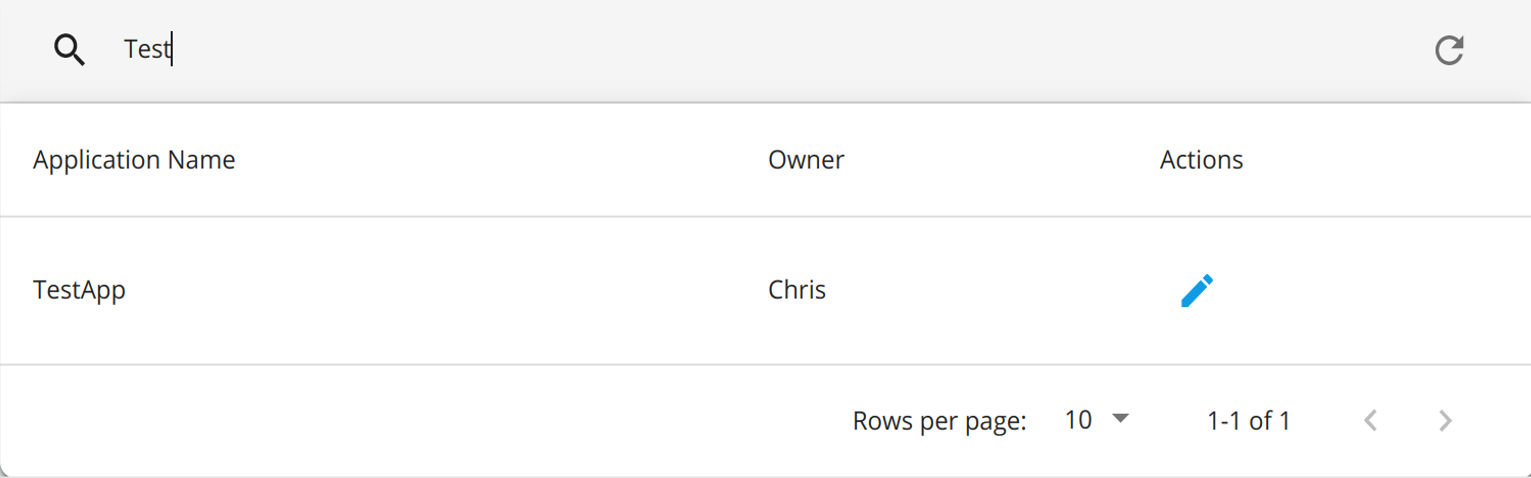
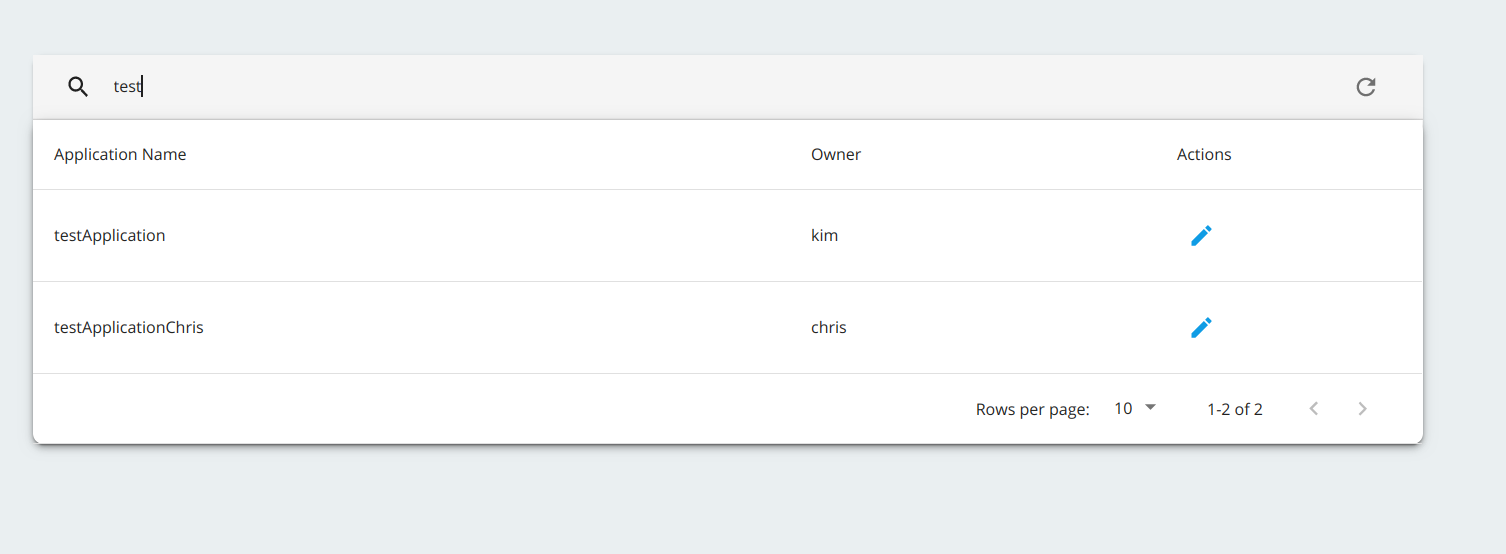
Update screenshots in Application ownership change Doc

diff --git a/en/docs/learn/consume-api/manage-application/advanced-topics/changing-the-owner-of-an-application.md b/en/docs/learn/consume-api/manage-application/advanced-topics/changing-the-owner-of-an-application.md
@@ -2,7 +2,7 @@
 
 If required, you can transfer the ownership of your application to another user in your organization. Thereby, when transferring ownership, the new owner will have the required permission to delete or edit the respective application.
 
-For example, let's consider that Chris and Kim are in the same organization and that Chris owns TestApp and that Chris wants to transfer the ownership of TestApp to Kim.
+For example, let's consider that **Chris** and **Kim** are in the same organization and that **Kim** owns testApplication and he wants to transfer the ownership of testApplication to **Chris**.
 
 Follow the instructions below to change the ownership of an application:
 
@@ -13,11 +13,12 @@ Follow the instructions below to change the ownership of an application:
 
          `https://<APIM-hostname>:9443/carbon`
 
-     2. Create two users named Chris and Kim with the `Internal/subscriber` role.
+     2. Create two users named **Chris** and **Kim** with the `Internal/subscriber` role.
+        Refer [Create New Users]({{base_path}}/administer/managing-users-and-roles/managing-users#adding-a-new-user) for more information.
 
-3.  Check the details of the application that you wish to share in the Developer Portal (e.g., TestApp).
+3.  Check the details of the application that you wish to share in the Developer Portal (e.g., testApplication).
 
-    1.  Sign in to the WSO2 API-M Developer Portal using the application owner's (Chris's) user credentials.
+    1.  Sign in to the WSO2 API-M Developer Portal using the application owner's (Kim's) user credentials.
 
          `https://<APIM-hostname>:9443/devportal`
 
@@ -35,7 +36,7 @@ Follow the instructions below to change the ownership of an application:
     3.  Search for the application that you want to share and click **Edit**.
         [![Search for the application]({{base_path}}/assets/img/learn/changing-application-owner-search.png)]({{base_path}}/assets/img/learn/changing-application-owner-search.png)
 
-    4.  Update the **Owner** field with the new owner's username (Kim).
+    4.  Update the **Owner** field with the new owner's username (Chris).
 
         !!! Troubleshooting
             If you get a "`Error while updating ownership to <username> `" error (e.g., Error while updating ownership to Kim) in the Admin Portal, make sure to request that specific user (e.g., Kim) to sign in to the WSO2 Developer Portal, because users are not added as subscribers until they sign in to the Developer Portal at least once.
@@ -45,6 +46,9 @@ Follow the instructions below to change the ownership of an application:
 
         [![Application page with the new ownership]({{base_path}}/assets/img/learn/changing-application-owner.png)]({{base_path}}/assets/img/learn/changing-application-owner.png)   
         
-        Now, when Chris signs in to the Developer Portal, the application named "TestApp" does not appear, and when Kim signs in to the Developer Portal the application named "TestApp" appears under the application list.
+        Now, when Kim signs in to the Developer Portal, the application named "testApplication" does not appear.
+        [![Kim Application List]({{base_path}}/assets/img/learn/application-kim.png)]({{base_path}}/assets/img/learn/application-chris.png)
+        And when Chris signs in to the Developer Portal the application named "testApplication" appears under the application list.
+        [![Chris Application List]({{base_path}}/assets/img/learn/application-chris.png)]({{base_path}}/assets/img/learn/application-chris.png)
 
 
